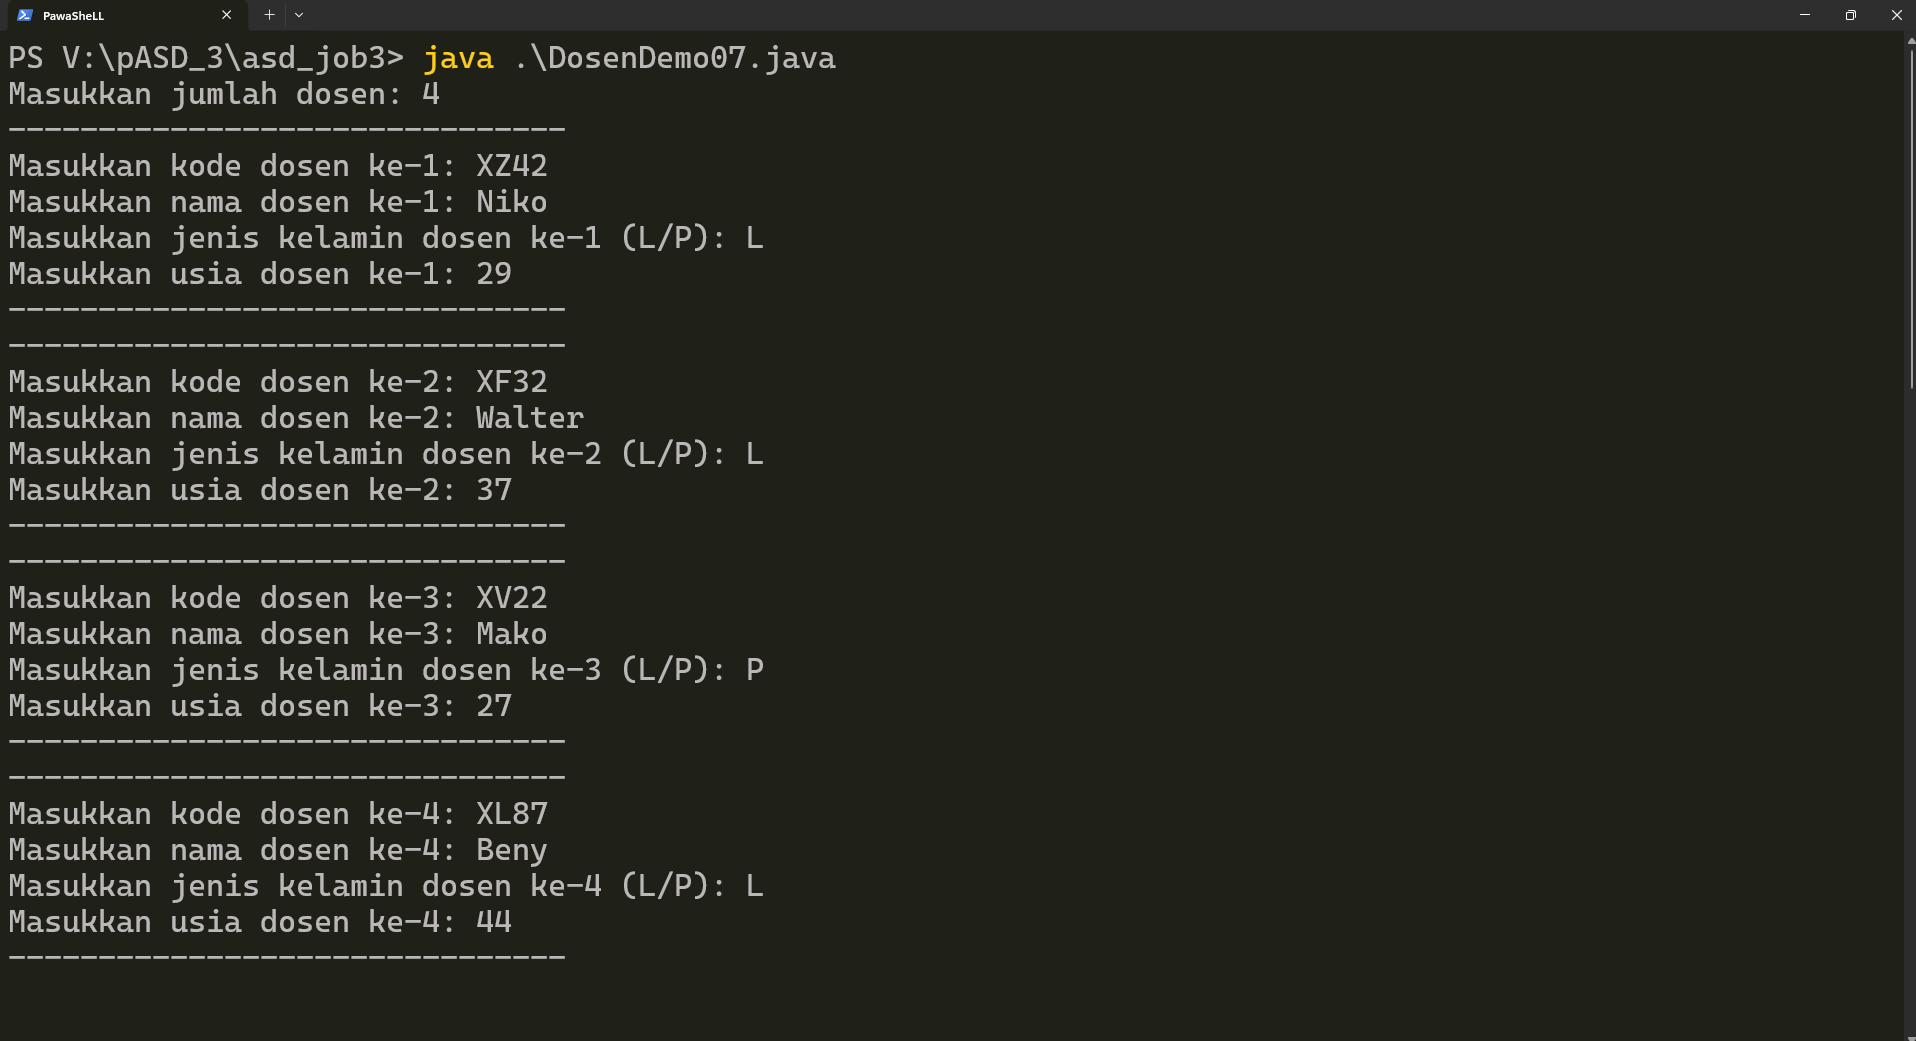
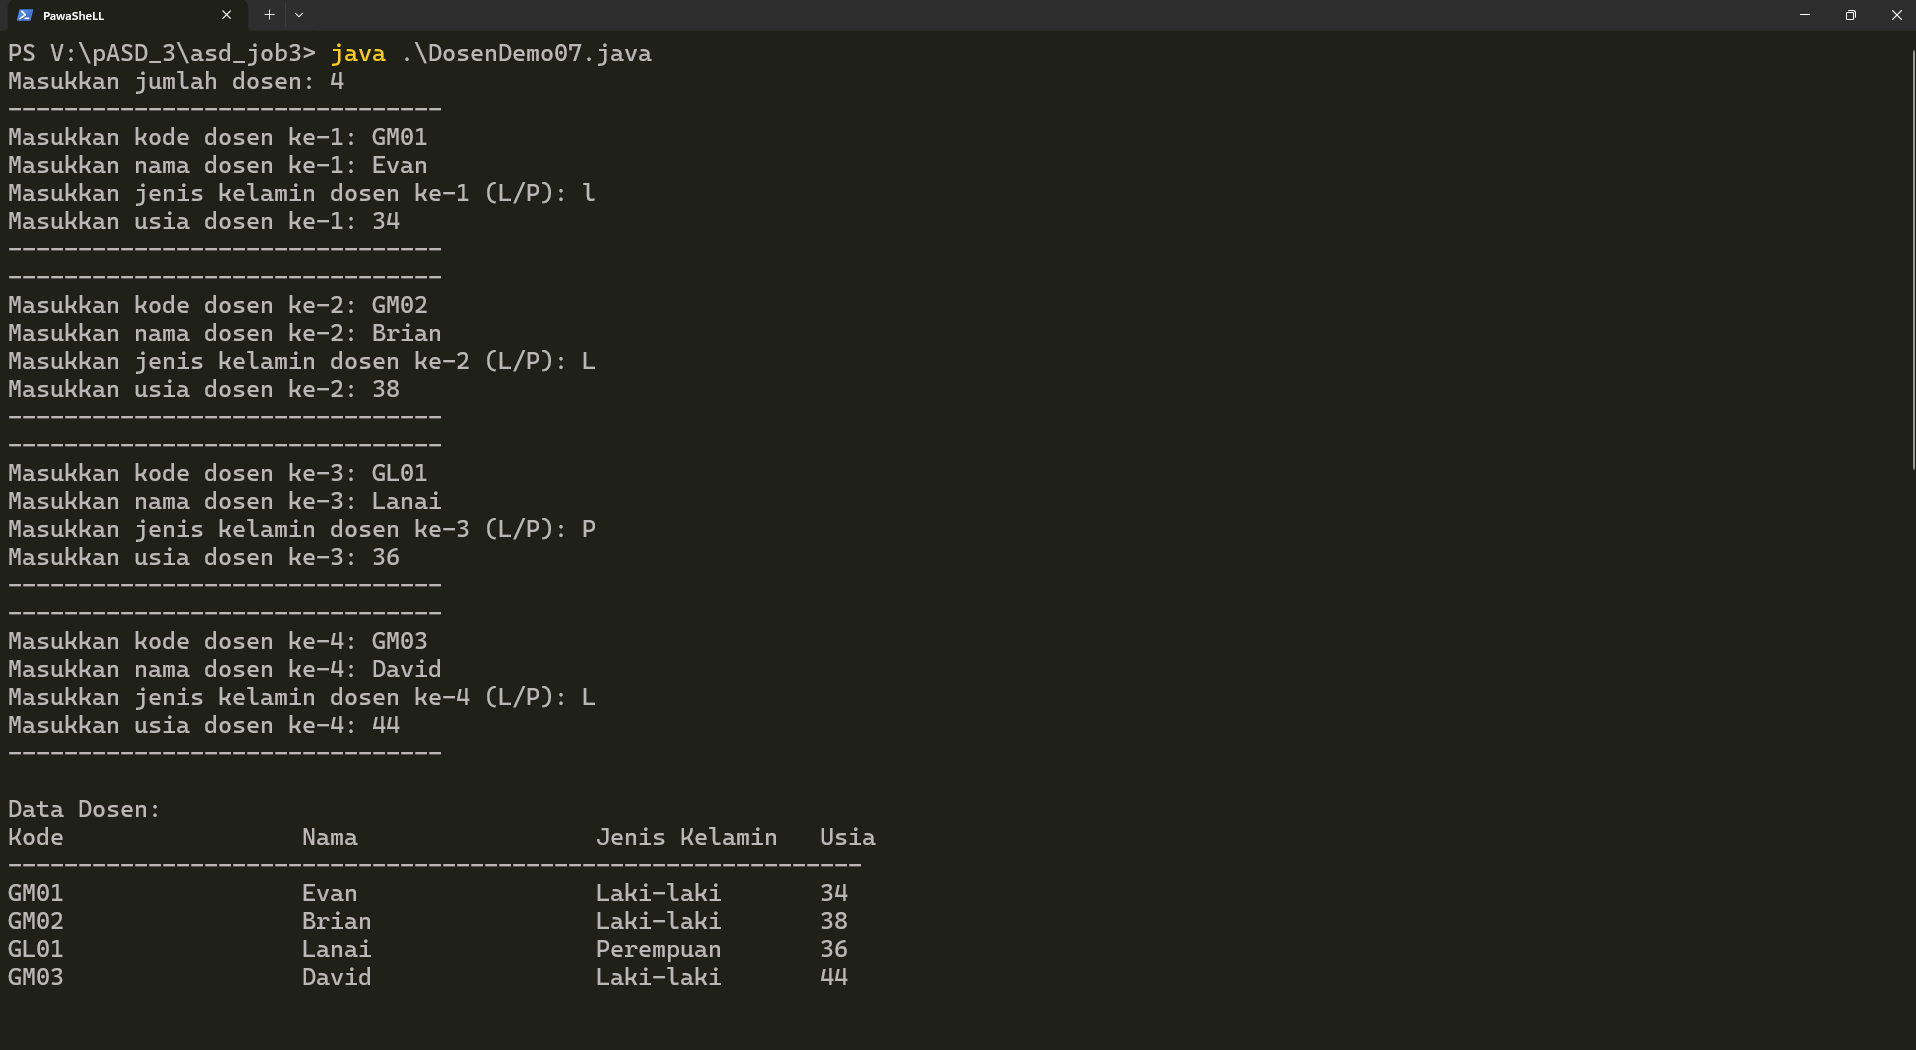
Hotfix Tugas 2. Membenarkan file yang terkait dengan Tugas 2 yang bermasalah typo yang mempengaruhi output. File afftected: DataDosen07.java, README.md, T2_Input.png, T2_Output.png.

Changed region(s): [[0.0, 0.0307, 0.4619, 0.9529], [0.9854, 0.0307, 1.0, 0.3689]]

diff --git a/DataDosen07.java b/DataDosen07.java
@@ -4,7 +4,7 @@ public class DataDosen07 {
   public static void dataSemuaDosen07(Dosen07[] arrayOfDosen07) {
     System.out.println("Data Semua Dosen:");
     for (Dosen07 dosen : arrayOfDosen07) {
-      String jenisKelamin = dosen.jenisKelamin ? "Perempuan" : "Laki-Laki";
+      String jenisKelamin = dosen.jenisKelamin ? "Laki-laki" : "Perempuan";
       System.out.println("Kode: " + dosen.kode);
       System.out.println("Nama: " + dosen.nama);
       System.out.println("Jenis Kelamin: " + jenisKelamin);
@@ -59,7 +59,7 @@ public class DataDosen07 {
     System.out.println("\nDosen Paling Tua:");
     System.out.println("Kode\t\t: " + tua.kode);
     System.out.println("Nama\t\t: " + tua.nama);
-    System.out.println("Jenis Kelamin : " + jk);
+    System.out.println("Jenis Kelamin\t: " + jk);
     System.out.println("Usia\t\t: " + tua.usia);
   }
 
@@ -72,7 +72,7 @@ public class DataDosen07 {
     System.out.println("\nDosen Paling Muda:");
     System.out.println("Kode\t\t: " + muda.kode);
     System.out.println("Nama\t\t: " + muda.nama);
-    System.out.println("Jenis Kelamin : " + jk);
+    System.out.println("Jenis Kelamin\t: " + jk);
     System.out.println("Usia\t\t: " + muda.usia);
   }
 }

diff --git a/README.md b/README.md
@@ -31,7 +31,7 @@ dengan methode constructor sebagai berikut;
 Kemudian buatlah class `DosenDemo<NoPresensi>` untuk proses input dan menampilkan data beberapa dosen. Gunakan looping dengan **`FOR`** untuk pembuatan **`array of object`**. Gunakan looping dengan **`FOREACH`** untuk menampilkan data ke layar.
 
 ### JAWABAN_TUGAS_1  
-[**Dosen07.java**](/asd_job3/Dosen07.java)  
+[**Dosen07.java**](Dosen07.java)  
 [**DosenDemo07.java (commit 9b33aa9, terdapat update untuk commit selanjutnya di tugas 2)**](https://github.com/okeokke/asd_job3/commit/9b33aa95ea13145443166d516ef1922cd34059fd#diff-6e794f8951a6349167d0cedf2ff5b2000e6c8b71fd5e53a0f1730c53d7cc49a4)  
   
   Contoh Output :   
@@ -54,10 +54,10 @@ Semua method tersebut harus bisa dipanggil/ditest dari class DosenDemo
 
 
 ### JAWABAN_TUGAS_2  
-[**DosenDemo07.java**](/asd_job3/DosenDemo07.java)  
-[**DataDosen07.java**](/asd_job3/DataDosen07.java)  
+[**DosenDemo07.java**](DosenDemo07.java)  
+[**DataDosen07.java**](DataDosen07.java)  
 log output program juga bisa diakses di :
-[https://enjoys.rocks/?36cceb697e0f1bf4#Ey78e3SkFGw1XU4jLNRqkm51MEvgVPNrETiCca5S6JTG](https://enjoys.rocks/?36cceb697e0f1bf4#Ey78e3SkFGw1XU4jLNRqkm51MEvgVPNrETiCca5S6JTG)  
+[https://enjoys.rocks/?3f4fbb95d0bb98c3#5oajs9L5bKnXpwcEmas8bYqdFwT2woQreb6yKL4NERMK](https://enjoys.rocks/?3f4fbb95d0bb98c3#5oajs9L5bKnXpwcEmas8bYqdFwT2woQreb6yKL4NERMK)  
 dengan password : `abil1f07`
 
 Contoh input :  
@@ -144,8 +144,8 @@ myArrayOfMahasiswa [0].ipk = (float) 3.75;
 [Kembali ke #Daftar_Percobaan](#daftar_percobaan-1)
 
 ### Jawaban
-1. [**Mahasiswa07.java**](/asd_job3/Praktikum03/Mahasiswa07.java)  
-[**MahasiswaDemo07.java**](/asd_job3/Praktikum03/MahasiswaDemo07.java)  
+1. [**Mahasiswa07.java**](Praktikum03/Mahasiswa07.java)  
+[**MahasiswaDemo07.java**](Praktikum03/MahasiswaDemo07.java)  
 ![Percobaan 2 Nomor 1](P2N1.png)
 2. Program mencoba mengakses indeks-0 dari array `myArrayOfMahasiswa` ber-tipe-data objek `Mahasiswa07`, tetapi, indeks-0 tersebut masih kosong/null, belum di-instansiasi/di-isi oleh objek yang dibutuhkan (objek `Mahasiswa07`), menyebabkan error `NullPointerException`.  
   
